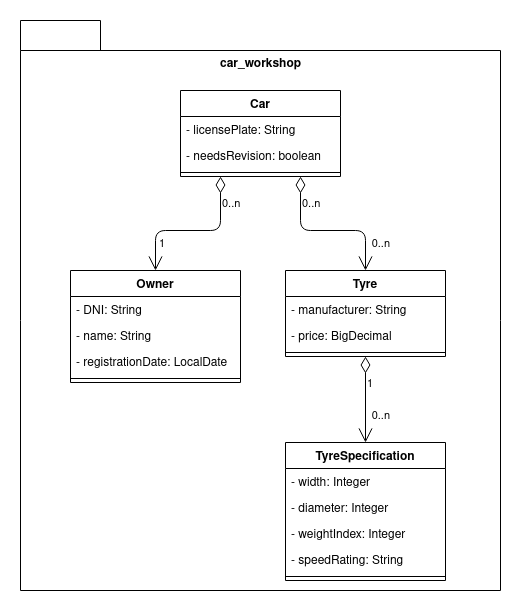
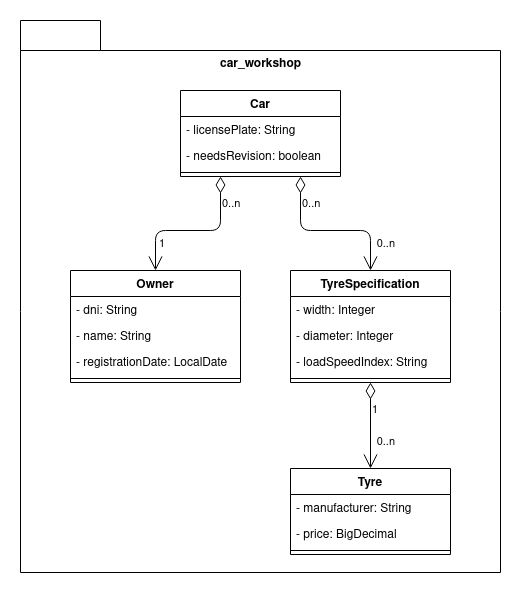
Fix atribute types and refactor rel. 1..n #3

diff --git a/src/main/java/es/upm/miw/apaw_practice/domain/models/car_workshop/TyreSpecification.java b/src/main/java/es/upm/miw/apaw_practice/domain/models/car_workshop/TyreSpecification.java
@@ -1,59 +1,60 @@
 package es.upm.miw.apaw_practice.domain.models.car_workshop;
 
+import java.util.List;
 import java.util.Objects;
 
 public class TyreSpecification {
-    private int width;
-    private int diameter;
-    private int weightIndex;
-    private String speedRating;
+    private Integer width;
+    private Integer diameter;
+    private String loadSpeedIndex;
+    private List<Tyre> tyres;
 
     public TyreSpecification() {
         //empty for framework
     }
 
-    public TyreSpecification(int width, int diameter, int weightIndex, String speedRating) {
+    public TyreSpecification(Integer width, Integer diameter, String loadSpeedIndex, List<Tyre> tyres) {
         this.width = width;
         this.diameter = diameter;
-        this.weightIndex = weightIndex;
-        this.speedRating = speedRating;
+        this.loadSpeedIndex = loadSpeedIndex;
+        this.tyres = tyres;
     }
 
-    public int getWidth() {
+    public Integer getWidth() {
         return width;
     }
 
-    public void setWidth(int width) {
+    public void setWidth(Integer width) {
         this.width = width;
     }
 
-    public int getDiameter() {
+    public Integer getDiameter() {
         return diameter;
     }
 
-    public void setDiameter(int diameter) {
+    public void setDiameter(Integer diameter) {
         this.diameter = diameter;
     }
 
-    public int getWeightIndex() {
-        return weightIndex;
+    public String getLoadSpeedIndex() {
+        return loadSpeedIndex;
     }
 
-    public void setWeightIndex(int weightIndex) {
-        this.weightIndex = weightIndex;
+    public void setLoadSpeedIndex(String loadSpeedIndex) {
+        this.loadSpeedIndex = loadSpeedIndex;
     }
 
-    public String getSpeedRating() {
-        return speedRating;
+    public List<Tyre> getTyres() {
+        return tyres;
     }
 
-    public void setSpeedRating(String speedRating) {
-        this.speedRating = speedRating;
+    public void setTyres(List<Tyre> tyres) {
+        this.tyres = tyres;
     }
 
     @Override
     public int hashCode() {
-        return Objects.hash(this.width, this.diameter, this.weightIndex, this.speedRating);
+        return Objects.hash(this.width, this.diameter, this.loadSpeedIndex);
     }
 
     @Override
@@ -61,10 +62,9 @@ public class TyreSpecification {
         if (this == o) return true;
         if (o == null || getClass() != o.getClass()) return false;
         TyreSpecification tyreSpec = (TyreSpecification) o;
-        return this.width == tyreSpec.width &&
-                this.diameter == tyreSpec.diameter &&
-                this.weightIndex == tyreSpec.weightIndex &&
-                Objects.equals(this.speedRating, tyreSpec.speedRating);
+        return Objects.equals(this.width, tyreSpec.width) &&
+                Objects.equals(this.diameter, tyreSpec.diameter) &&
+                Objects.equals(this.loadSpeedIndex, tyreSpec.loadSpeedIndex);
     }
 
     @Override
@@ -72,8 +72,8 @@ public class TyreSpecification {
         return "TyreSpecification{" +
                 "width=" + this.width +
                 ", diameter=" + this.diameter +
-                ", weightIndex=" + this.weightIndex +
-                ", speedRating='" + this.speedRating + '\'' +
+                ", loadSpeedIndex='" + this.loadSpeedIndex + '\'' +
+                ", tyres=" + this.tyres.toString() +
                 '}';
     }
 }

diff --git a/src/main/java/es/upm/miw/apaw_practice/domain/models/car_workshop/Car.java b/src/main/java/es/upm/miw/apaw_practice/domain/models/car_workshop/Car.java
@@ -6,19 +6,19 @@ import java.util.Objects;
 public class Car {
 
     private String licensePlate;
-    private boolean needsRevision;
+    private Boolean needsRevision;
     private Owner owner;
-    private List<Tyre> tyres;
+    private List<TyreSpecification> tyreSpecs;
 
     public Car() {
         // empty for framework
     }
 
-    public Car(String licensePlate, boolean needsRevision, Owner owner, List<Tyre> tyres) {
+    public Car(String licensePlate, Boolean needsRevision, Owner owner, List<TyreSpecification> tyreSpecs) {
         this.licensePlate = licensePlate;
         this.needsRevision = needsRevision;
         this.owner = owner;
-        this.tyres = tyres;
+        this.tyreSpecs = tyreSpecs;
     }
 
     public String getLicensePlate() {
@@ -33,7 +33,7 @@ public class Car {
         return needsRevision;
     }
 
-    public void setNeedsRevision(boolean needsRevision) {
+    public void setNeedsRevision(Boolean needsRevision) {
         this.needsRevision = needsRevision;
     }
 
@@ -45,12 +45,16 @@ public class Car {
         this.owner = owner;
     }
 
-    public List<Tyre> getTyres() {
-        return tyres;
+    public Boolean getNeedsRevision() {
+        return needsRevision;
     }
 
-    public void setTyres(List<Tyre> tyres) {
-        this.tyres = tyres;
+    public List<TyreSpecification> getTyreSpecs() {
+        return tyreSpecs;
+    }
+
+    public void setTyreSpecs(List<TyreSpecification> tyreSpecs) {
+        this.tyreSpecs = tyreSpecs;
     }
 
     @Override
@@ -71,7 +75,7 @@ public class Car {
                 "licensePlate='" + this.licensePlate + '\'' +
                 ", needsRevision=" + this.needsRevision +
                 ", owner=" + this.owner.toString() +
-                ", tyres=" + this.tyres.toString() +
+                ", tyreSpecifications=" + this.tyreSpecs.toString() +
                 '}';
     }
 }

diff --git a/src/main/java/es/upm/miw/apaw_practice/domain/models/car_workshop/Tyre.java b/src/main/java/es/upm/miw/apaw_practice/domain/models/car_workshop/Tyre.java
@@ -6,17 +6,17 @@ import java.util.Objects;
 public class Tyre {
 
     private String manufacturer;
+    private String model;
     private BigDecimal price;
-    private TyreSpecification tyreSpec;
 
     public Tyre() {
         //empty for framework
     }
 
-    public Tyre(String manufacturer, BigDecimal price, TyreSpecification specs) {
+    public Tyre(String manufacturer, String model, BigDecimal price) {
         this.manufacturer = manufacturer;
+        this.model = model;
         this.price = price;
-        this.tyreSpec = specs;
     }
 
     public String getManufacturer() {
@@ -35,17 +35,9 @@ public class Tyre {
         this.price = price;
     }
 
-    public TyreSpecification getTyreSpec() {
-        return tyreSpec;
-    }
-
-    public void setTyreSpec(TyreSpecification tyreSpec) {
-        this.tyreSpec = tyreSpec;
-    }
-
     @Override
     public int hashCode() {
-        return Objects.hash(this.manufacturer, this.tyreSpec);
+        return Objects.hash(this.manufacturer, this.model);
     }
 
     @Override
@@ -53,15 +45,15 @@ public class Tyre {
         if (this == o) return true;
         if (o == null || getClass() != o.getClass()) return false;
         return Objects.equals(this.manufacturer, ((Tyre) o).manufacturer) &&
-                Objects.equals(this.tyreSpec, ((Tyre) o).tyreSpec);
+                Objects.equals(this.model, ((Tyre) o).model);
     }
 
     @Override
     public String toString() {
         return "Tyre{" +
-                "manufacturer='" + this.manufacturer + '\'' +
-                ", price=" + this.price +
-                ", specs=" + this.tyreSpec.toString() +
+                "manufacturer='" + manufacturer + '\'' +
+                ", model='" + model + '\'' +
+                ", price=" + price +
                 '}';
     }
 }
